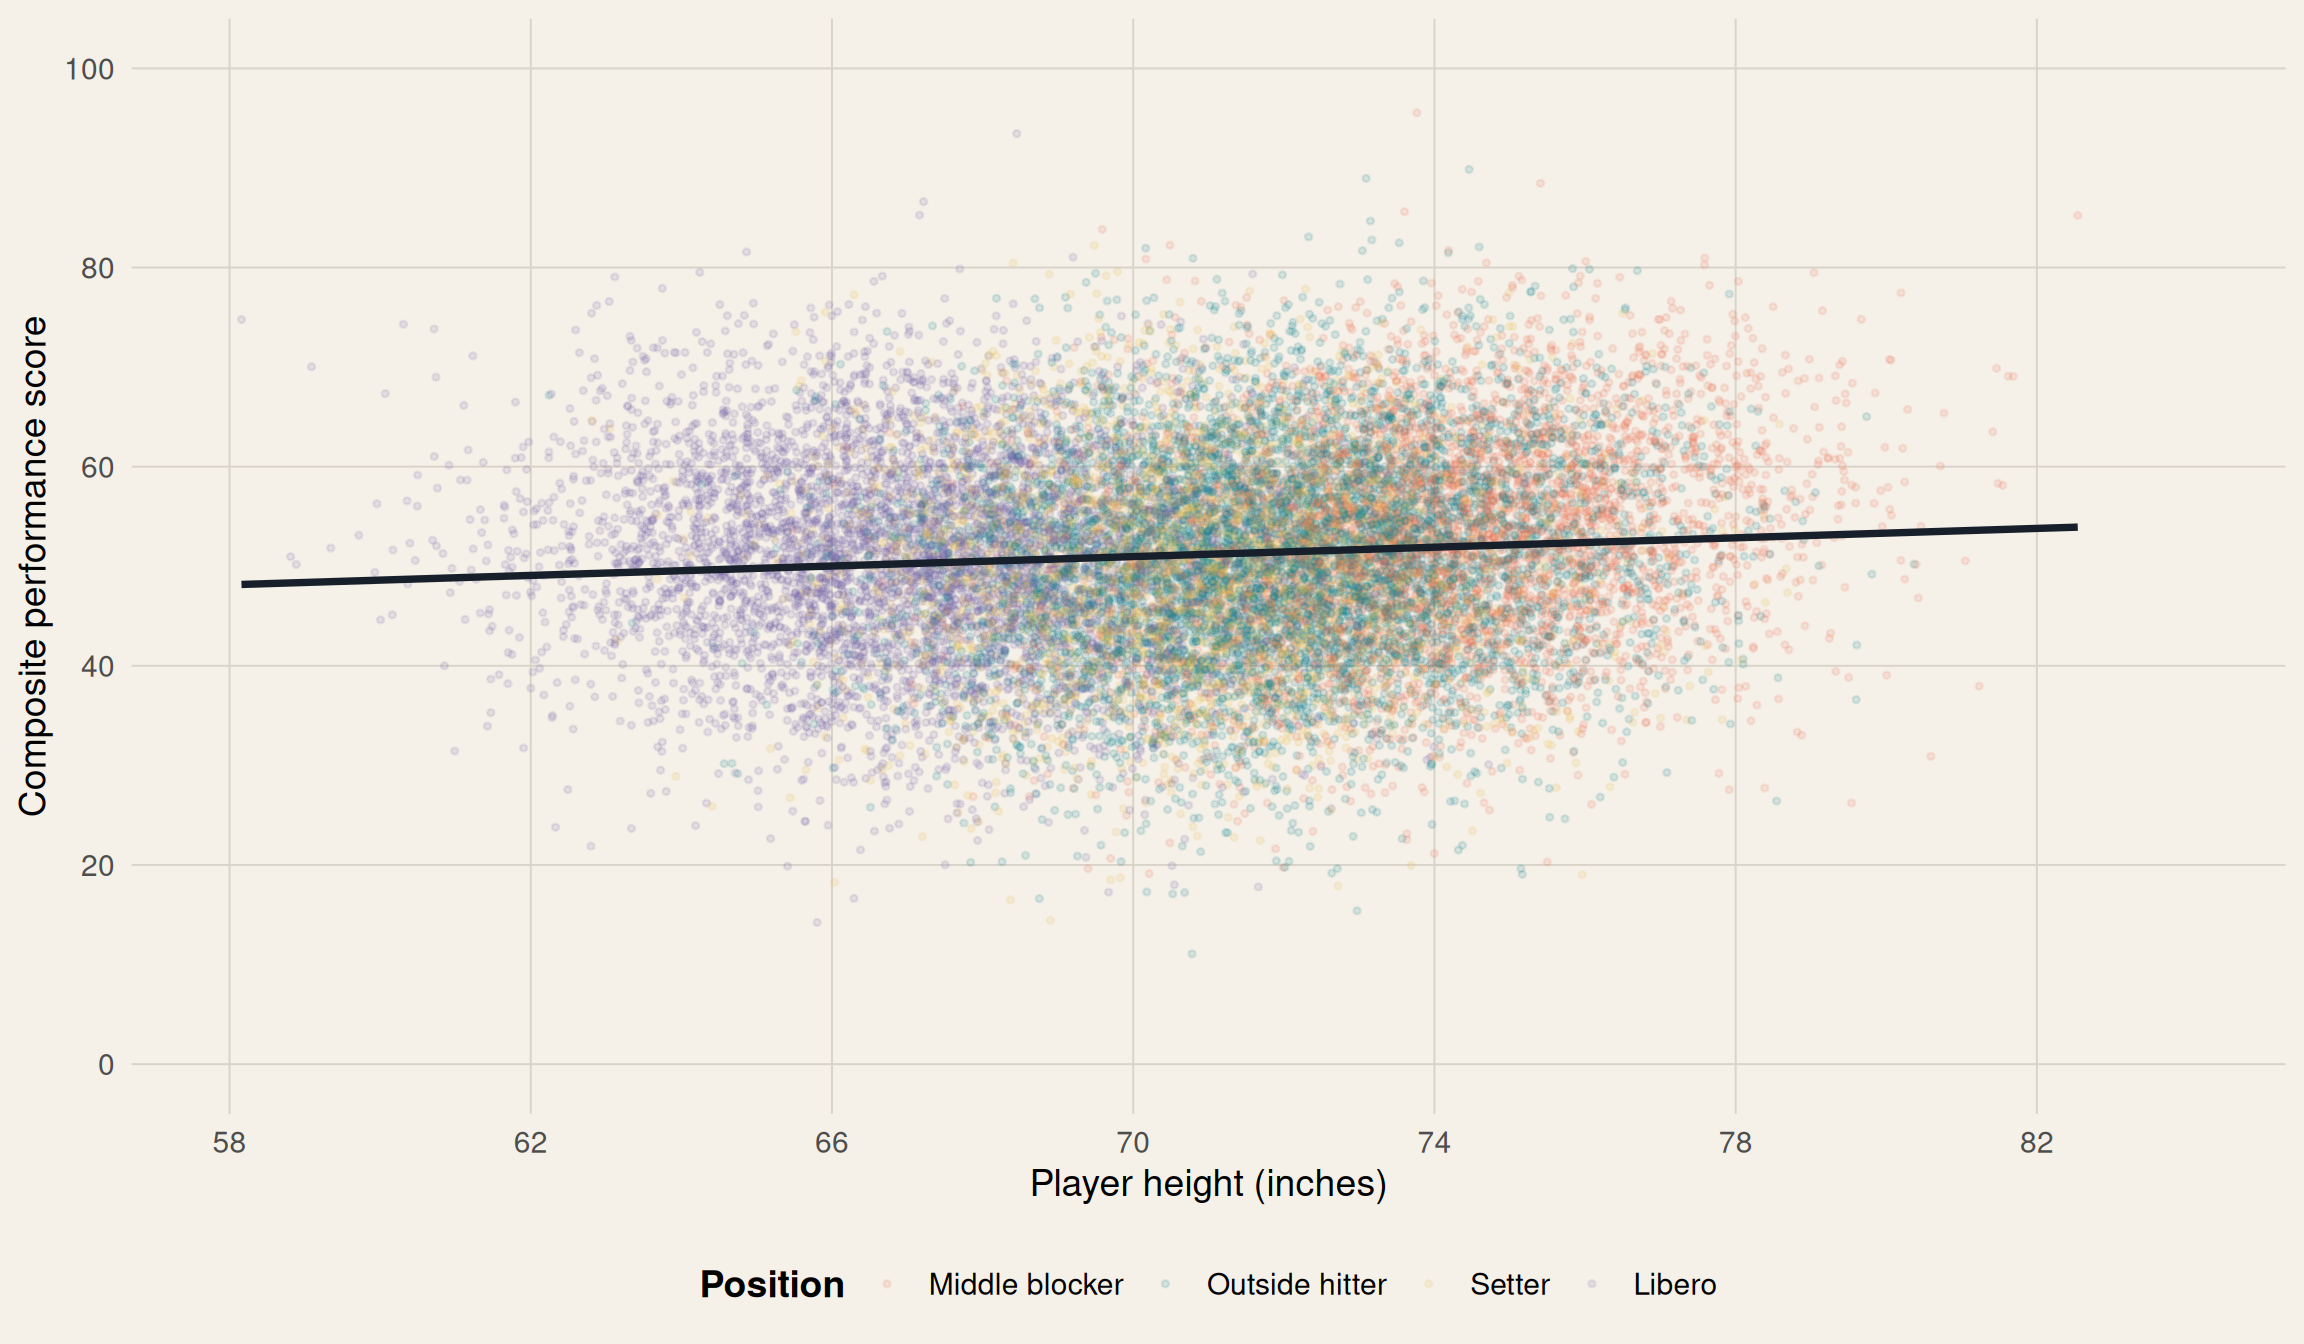
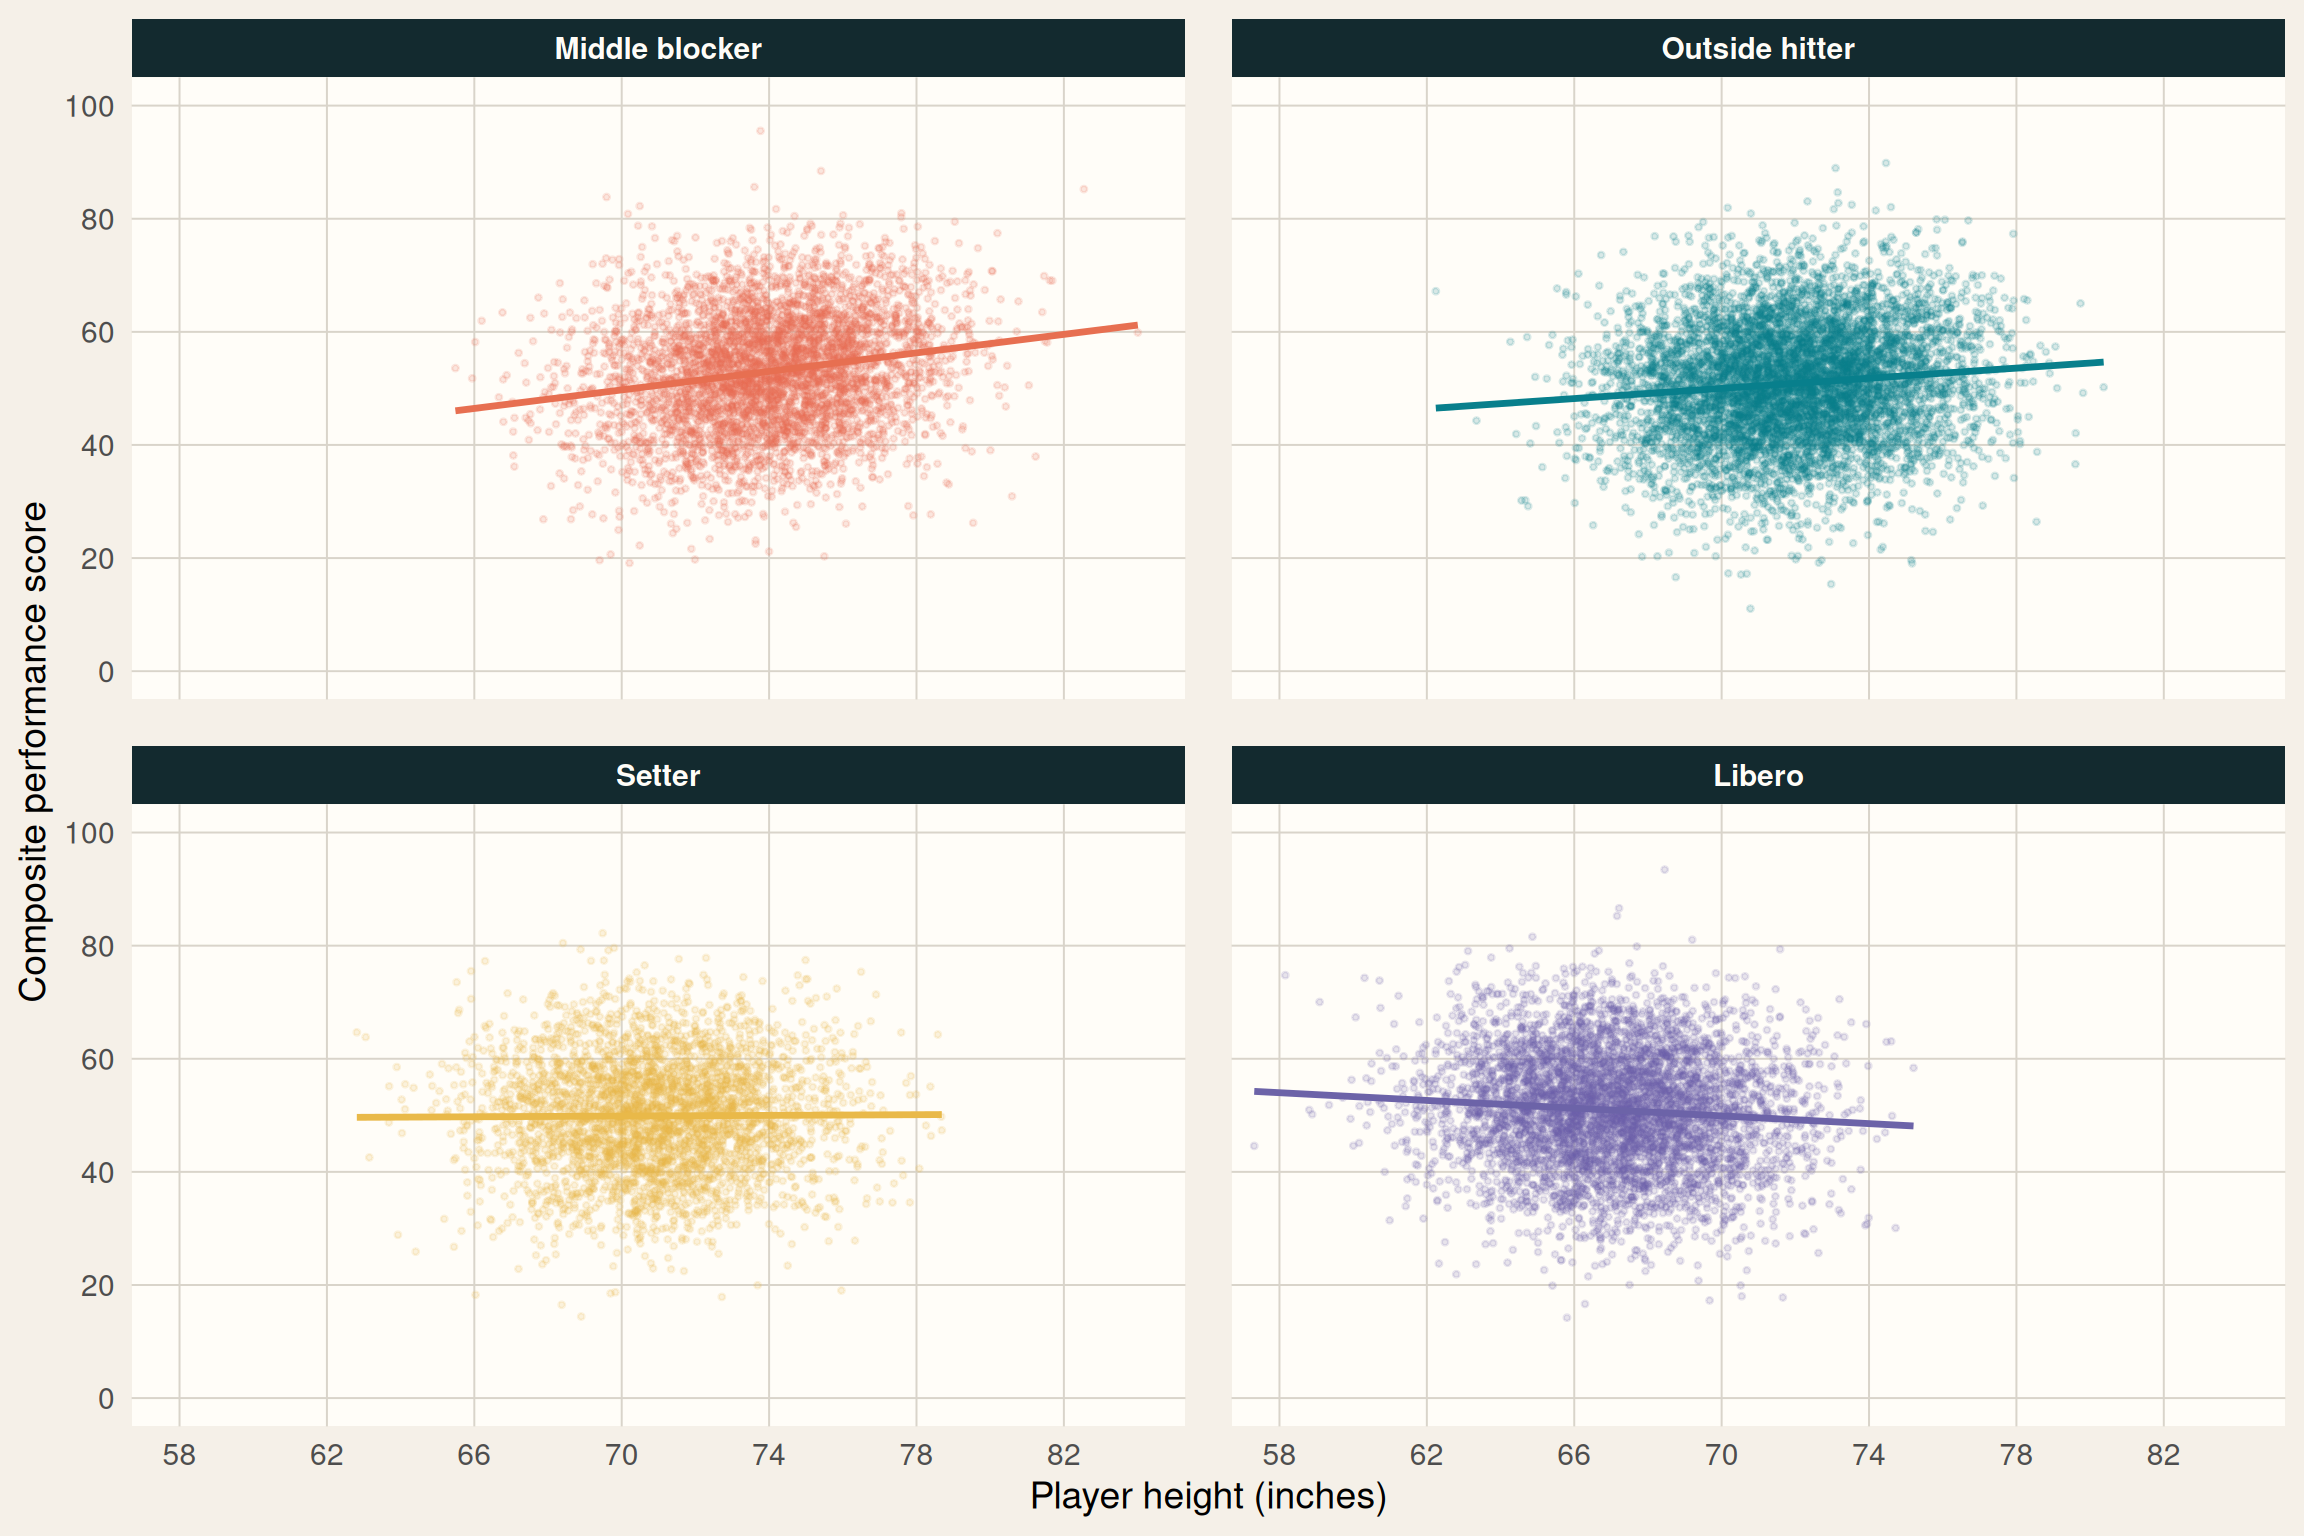
Built site for gh-pages

diff --git a/index.html b/index.html
@@ -194,27 +194,30 @@ pre > code.sourceCode > span > a:first-child::before { text-decoration: underlin
 <span id="cb1-23"><a href="#cb1-23" aria-hidden="true" tabindex="-1"></a>)</span>
 <span id="cb1-24"><a href="#cb1-24" aria-hidden="true" tabindex="-1"></a></span>
 <span id="cb1-25"><a href="#cb1-25" aria-hidden="true" tabindex="-1"></a><span class="fu">ggplot</span>(players, <span class="fu">aes</span>(height, performance, <span class="at">colour =</span> position)) <span class="sc">+</span></span>
-<span id="cb1-26"><a href="#cb1-26" aria-hidden="true" tabindex="-1"></a>  <span class="fu">geom_point</span>(<span class="at">alpha =</span> .<span class="dv">13</span>, <span class="at">size =</span> .<span class="dv">8</span>) <span class="sc">+</span></span>
+<span id="cb1-26"><a href="#cb1-26" aria-hidden="true" tabindex="-1"></a>  <span class="fu">geom_point</span>(<span class="at">alpha =</span> .<span class="dv">16</span>, <span class="at">size =</span> .<span class="dv">7</span>) <span class="sc">+</span></span>
 <span id="cb1-27"><a href="#cb1-27" aria-hidden="true" tabindex="-1"></a>  <span class="fu">geom_smooth</span>(<span class="at">method =</span> <span class="st">"lm"</span>, <span class="at">formula =</span> y <span class="sc">~</span> x, <span class="at">se =</span> <span class="cn">FALSE</span>,</span>
-<span id="cb1-28"><a href="#cb1-28" aria-hidden="true" tabindex="-1"></a>              <span class="at">linewidth =</span> <span class="fl">1.3</span>, <span class="at">colour =</span> <span class="st">"#17202a"</span>) <span class="sc">+</span></span>
-<span id="cb1-29"><a href="#cb1-29" aria-hidden="true" tabindex="-1"></a>  <span class="fu">scale_colour_manual</span>(<span class="at">values =</span> <span class="fu">c</span>(<span class="st">"#e76f51"</span>, <span class="st">"#087f8c"</span>, <span class="st">"#e9b949"</span>, <span class="st">"#6c63a8"</span>)) <span class="sc">+</span></span>
-<span id="cb1-30"><a href="#cb1-30" aria-hidden="true" tabindex="-1"></a>  <span class="fu">scale_x_continuous</span>(<span class="at">breaks =</span> <span class="fu">seq</span>(<span class="dv">58</span>, <span class="dv">84</span>, <span class="dv">4</span>), <span class="at">limits =</span> <span class="fu">c</span>(<span class="dv">58</span>, <span class="dv">84</span>)) <span class="sc">+</span></span>
-<span id="cb1-31"><a href="#cb1-31" aria-hidden="true" tabindex="-1"></a>  <span class="fu">scale_y_continuous</span>(<span class="at">breaks =</span> <span class="fu">seq</span>(<span class="dv">0</span>, <span class="dv">100</span>, <span class="dv">20</span>), <span class="at">limits =</span> <span class="fu">c</span>(<span class="dv">0</span>, <span class="dv">100</span>)) <span class="sc">+</span></span>
-<span id="cb1-32"><a href="#cb1-32" aria-hidden="true" tabindex="-1"></a>  <span class="fu">labs</span>(</span>
-<span id="cb1-33"><a href="#cb1-33" aria-hidden="true" tabindex="-1"></a>    <span class="at">x =</span> <span class="st">"Player height (inches)"</span>,</span>
-<span id="cb1-34"><a href="#cb1-34" aria-hidden="true" tabindex="-1"></a>    <span class="at">y =</span> <span class="st">"Composite performance score"</span>,</span>
-<span id="cb1-35"><a href="#cb1-35" aria-hidden="true" tabindex="-1"></a>    <span class="at">colour =</span> <span class="st">"Position"</span></span>
-<span id="cb1-36"><a href="#cb1-36" aria-hidden="true" tabindex="-1"></a>  ) <span class="sc">+</span></span>
-<span id="cb1-37"><a href="#cb1-37" aria-hidden="true" tabindex="-1"></a>  <span class="fu">theme_minimal</span>(<span class="at">base_size =</span> <span class="dv">14</span>) <span class="sc">+</span></span>
-<span id="cb1-38"><a href="#cb1-38" aria-hidden="true" tabindex="-1"></a>  <span class="fu">theme</span>(</span>
-<span id="cb1-39"><a href="#cb1-39" aria-hidden="true" tabindex="-1"></a>    <span class="at">plot.background =</span> <span class="fu">element_rect</span>(<span class="at">fill =</span> <span class="st">"#f5f0e8"</span>, <span class="at">colour =</span> <span class="cn">NA</span>),</span>
-<span id="cb1-40"><a href="#cb1-40" aria-hidden="true" tabindex="-1"></a>    <span class="at">panel.background =</span> <span class="fu">element_rect</span>(<span class="at">fill =</span> <span class="st">"#f5f0e8"</span>, <span class="at">colour =</span> <span class="cn">NA</span>),</span>
-<span id="cb1-41"><a href="#cb1-41" aria-hidden="true" tabindex="-1"></a>    <span class="at">panel.grid.minor =</span> <span class="fu">element_blank</span>(),</span>
-<span id="cb1-42"><a href="#cb1-42" aria-hidden="true" tabindex="-1"></a>    <span class="at">panel.grid.major =</span> <span class="fu">element_line</span>(<span class="at">colour =</span> <span class="st">"#d9d4ca"</span>, <span class="at">linewidth =</span> .<span class="dv">35</span>),</span>
-<span id="cb1-43"><a href="#cb1-43" aria-hidden="true" tabindex="-1"></a>    <span class="at">legend.position =</span> <span class="st">"bottom"</span>,</span>
-<span id="cb1-44"><a href="#cb1-44" aria-hidden="true" tabindex="-1"></a>    <span class="at">legend.title =</span> <span class="fu">element_text</span>(<span class="at">face =</span> <span class="st">"bold"</span>),</span>
-<span id="cb1-45"><a href="#cb1-45" aria-hidden="true" tabindex="-1"></a>    <span class="at">plot.caption =</span> <span class="fu">element_text</span>(<span class="at">colour =</span> <span class="st">"#5f7374"</span>)</span>
-<span id="cb1-46"><a href="#cb1-46" aria-hidden="true" tabindex="-1"></a>  )</span></code></pre></div><button title="Copy to Clipboard" class="code-copy-button"><i class="bi"></i></button></div>
+<span id="cb1-28"><a href="#cb1-28" aria-hidden="true" tabindex="-1"></a>              <span class="at">linewidth =</span> <span class="fl">1.2</span>, <span class="at">show.legend =</span> <span class="cn">FALSE</span>) <span class="sc">+</span></span>
+<span id="cb1-29"><a href="#cb1-29" aria-hidden="true" tabindex="-1"></a>  <span class="fu">facet_wrap</span>(<span class="sc">~</span>position, <span class="at">ncol =</span> <span class="dv">2</span>) <span class="sc">+</span></span>
+<span id="cb1-30"><a href="#cb1-30" aria-hidden="true" tabindex="-1"></a>  <span class="fu">scale_colour_manual</span>(<span class="at">values =</span> <span class="fu">c</span>(<span class="st">"#e76f51"</span>, <span class="st">"#087f8c"</span>, <span class="st">"#e9b949"</span>, <span class="st">"#6c63a8"</span>)) <span class="sc">+</span></span>
+<span id="cb1-31"><a href="#cb1-31" aria-hidden="true" tabindex="-1"></a>  <span class="fu">scale_x_continuous</span>(<span class="at">breaks =</span> <span class="fu">seq</span>(<span class="dv">58</span>, <span class="dv">84</span>, <span class="dv">4</span>)) <span class="sc">+</span></span>
+<span id="cb1-32"><a href="#cb1-32" aria-hidden="true" tabindex="-1"></a>  <span class="fu">scale_y_continuous</span>(<span class="at">breaks =</span> <span class="fu">seq</span>(<span class="dv">0</span>, <span class="dv">100</span>, <span class="dv">20</span>)) <span class="sc">+</span></span>
+<span id="cb1-33"><a href="#cb1-33" aria-hidden="true" tabindex="-1"></a>  <span class="fu">coord_cartesian</span>(<span class="at">xlim =</span> <span class="fu">c</span>(<span class="dv">58</span>, <span class="dv">84</span>), <span class="at">ylim =</span> <span class="fu">c</span>(<span class="dv">0</span>, <span class="dv">100</span>)) <span class="sc">+</span></span>
+<span id="cb1-34"><a href="#cb1-34" aria-hidden="true" tabindex="-1"></a>  <span class="fu">labs</span>(</span>
+<span id="cb1-35"><a href="#cb1-35" aria-hidden="true" tabindex="-1"></a>    <span class="at">x =</span> <span class="st">"Player height (inches)"</span>,</span>
+<span id="cb1-36"><a href="#cb1-36" aria-hidden="true" tabindex="-1"></a>    <span class="at">y =</span> <span class="st">"Composite performance score"</span></span>
+<span id="cb1-37"><a href="#cb1-37" aria-hidden="true" tabindex="-1"></a>  ) <span class="sc">+</span></span>
+<span id="cb1-38"><a href="#cb1-38" aria-hidden="true" tabindex="-1"></a>  <span class="fu">guides</span>(<span class="at">colour =</span> <span class="st">"none"</span>) <span class="sc">+</span></span>
+<span id="cb1-39"><a href="#cb1-39" aria-hidden="true" tabindex="-1"></a>  <span class="fu">theme_minimal</span>(<span class="at">base_size =</span> <span class="dv">14</span>) <span class="sc">+</span></span>
+<span id="cb1-40"><a href="#cb1-40" aria-hidden="true" tabindex="-1"></a>  <span class="fu">theme</span>(</span>
+<span id="cb1-41"><a href="#cb1-41" aria-hidden="true" tabindex="-1"></a>    <span class="at">plot.background =</span> <span class="fu">element_rect</span>(<span class="at">fill =</span> <span class="st">"#f5f0e8"</span>, <span class="at">colour =</span> <span class="cn">NA</span>),</span>
+<span id="cb1-42"><a href="#cb1-42" aria-hidden="true" tabindex="-1"></a>    <span class="at">panel.background =</span> <span class="fu">element_rect</span>(<span class="at">fill =</span> <span class="st">"#fffdf8"</span>, <span class="at">colour =</span> <span class="cn">NA</span>),</span>
+<span id="cb1-43"><a href="#cb1-43" aria-hidden="true" tabindex="-1"></a>    <span class="at">panel.grid.minor =</span> <span class="fu">element_blank</span>(),</span>
+<span id="cb1-44"><a href="#cb1-44" aria-hidden="true" tabindex="-1"></a>    <span class="at">panel.grid.major =</span> <span class="fu">element_line</span>(<span class="at">colour =</span> <span class="st">"#d9d4ca"</span>, <span class="at">linewidth =</span> .<span class="dv">35</span>),</span>
+<span id="cb1-45"><a href="#cb1-45" aria-hidden="true" tabindex="-1"></a>    <span class="at">strip.background =</span> <span class="fu">element_rect</span>(<span class="at">fill =</span> <span class="st">"#132a2f"</span>, <span class="at">colour =</span> <span class="cn">NA</span>),</span>
+<span id="cb1-46"><a href="#cb1-46" aria-hidden="true" tabindex="-1"></a>    <span class="at">strip.text =</span> <span class="fu">element_text</span>(<span class="at">colour =</span> <span class="st">"#fffdf8"</span>, <span class="at">face =</span> <span class="st">"bold"</span>),</span>
+<span id="cb1-47"><a href="#cb1-47" aria-hidden="true" tabindex="-1"></a>    <span class="at">panel.spacing =</span> <span class="fu">unit</span>(<span class="fl">1.2</span>, <span class="st">"lines"</span>),</span>
+<span id="cb1-48"><a href="#cb1-48" aria-hidden="true" tabindex="-1"></a>    <span class="at">plot.caption =</span> <span class="fu">element_text</span>(<span class="at">colour =</span> <span class="st">"#5f7374"</span>)</span>
+<span id="cb1-49"><a href="#cb1-49" aria-hidden="true" tabindex="-1"></a>  )</span></code></pre></div><button title="Copy to Clipboard" class="code-copy-button"><i class="bi"></i></button></div>
 <div class="cell-output-display">
 <div id="fig-height-signal" class="quarto-float quarto-figure quarto-figure-center anchored">
 <figure class="quarto-float quarto-float-fig figure">
